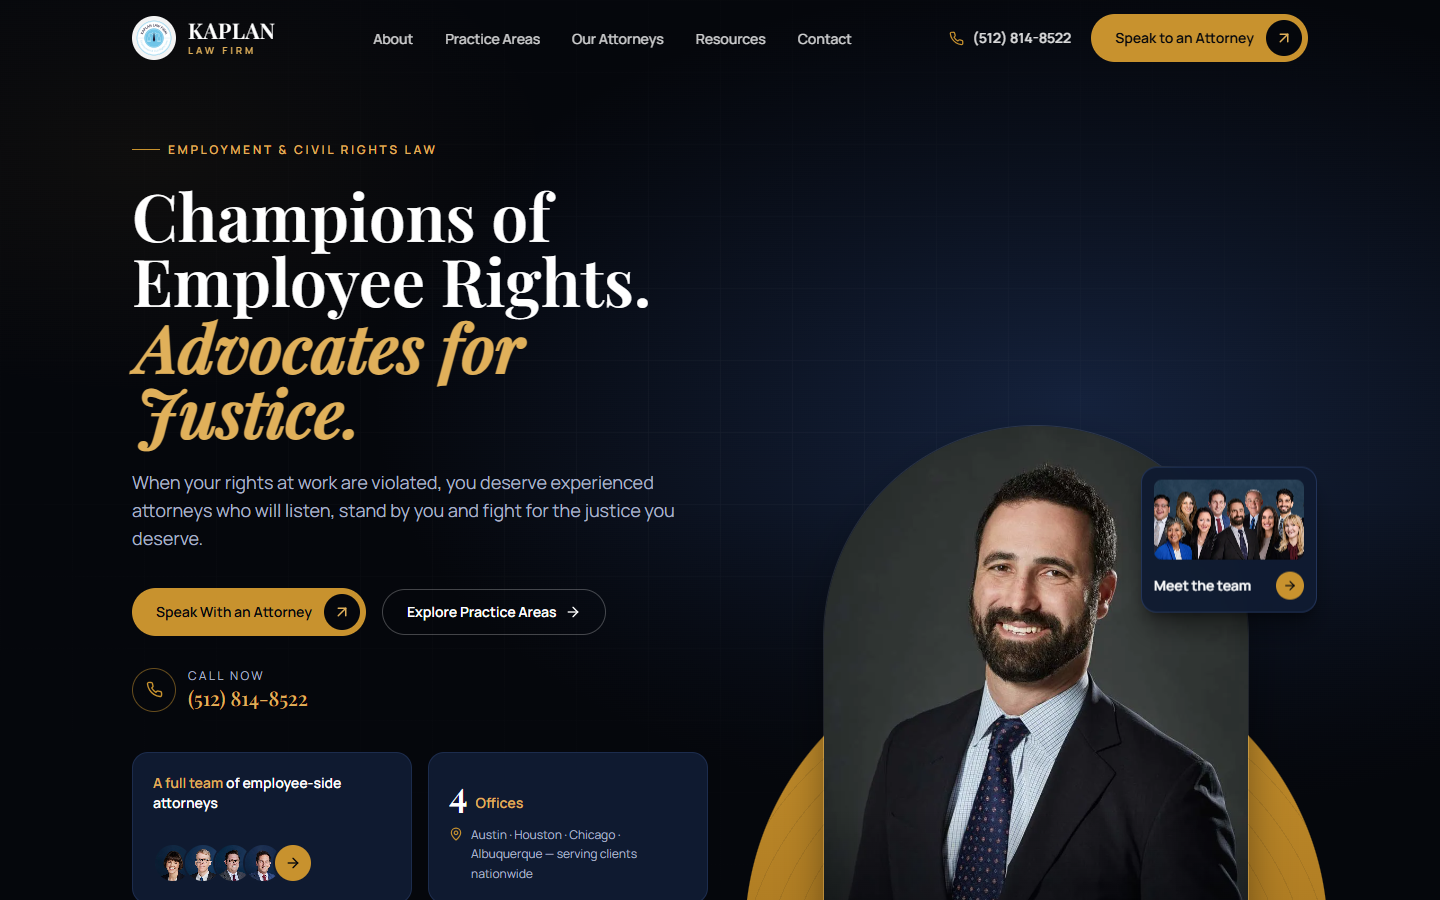
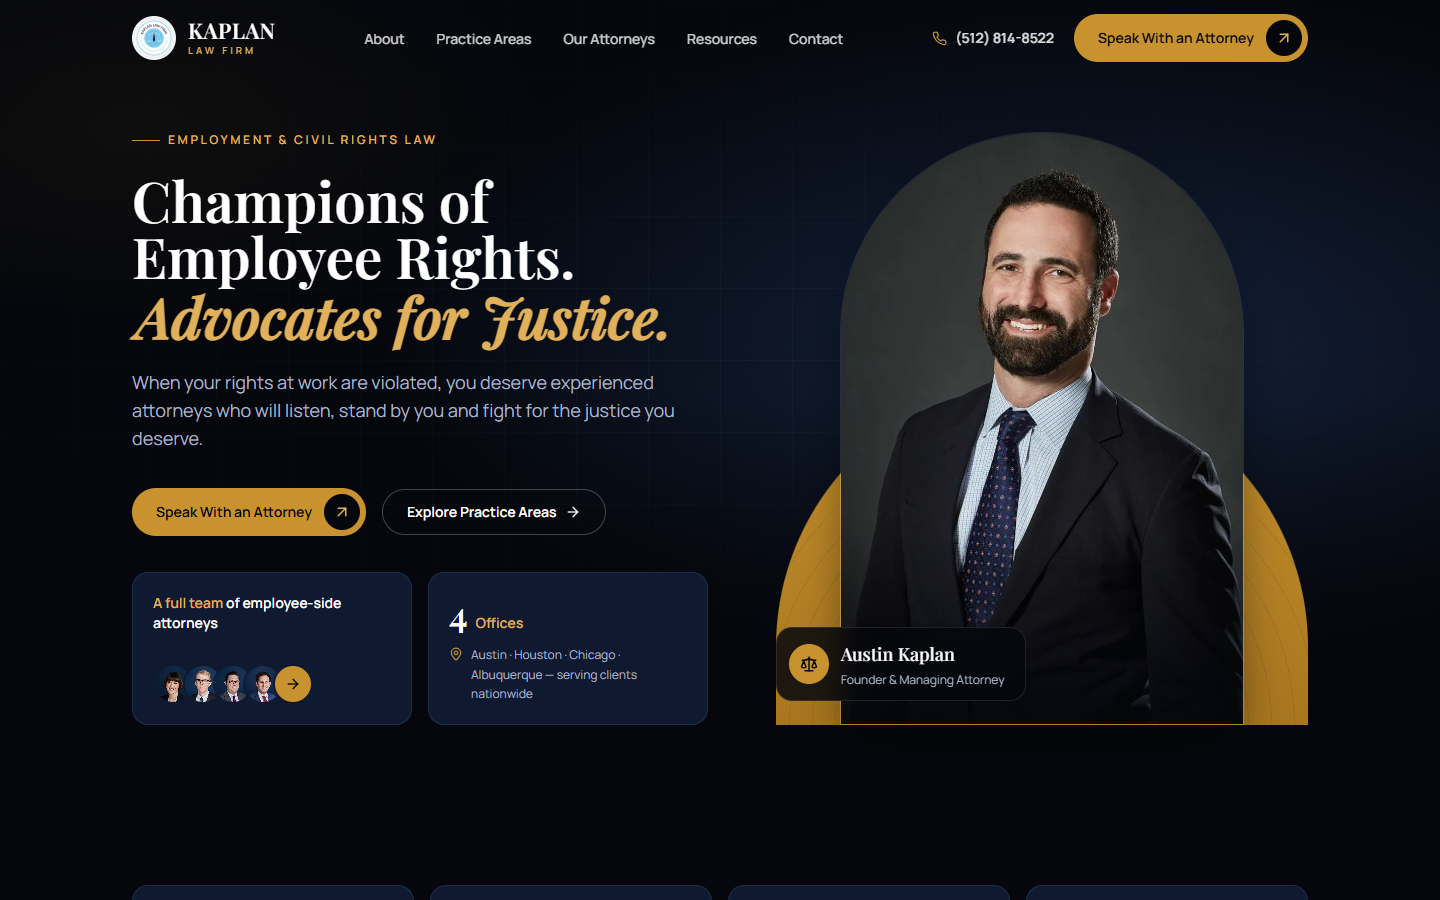
update design

diff --git a/src/components/Hero.jsx b/src/components/Hero.jsx
@@ -1,6 +1,6 @@
-import { Phone, Scale, ArrowRight, MapPin } from 'lucide-react';
+import { Scale, ArrowRight, MapPin } from 'lucide-react';
 import ArrowButton from './ArrowButton';
-import { firm, attorneys } from '../data/site';
+import { attorneys } from '../data/site';
 
 export default function Hero() {
   return (
@@ -13,13 +13,14 @@ export default function Hero() {
         <div className="absolute inset-0 bg-gradient-to-b from-ink/40 via-transparent to-ink" />
       </div>
 
-      <div className="container-site grid items-center gap-14 pb-16 pt-10 lg:grid-cols-[1.05fr_.95fr] lg:gap-8 lg:pb-0 lg:pt-14">
+      {/* One shared frame: both columns stretch to the same top and bottom edge */}
+      <div className="container-site grid items-stretch gap-12 pb-16 pt-10 lg:grid-cols-[1.05fr_.95fr] lg:gap-14 lg:pb-20 lg:pt-14">
         {/* Copy */}
-        <div className="relative z-10 lg:pb-24">
+        <div className="relative z-10 flex flex-col">
           <p className="eyebrow">Employment &amp; Civil Rights Law</p>
-          <h1 className="mt-6 font-serif text-[2.6rem] font-semibold leading-[1.06] sm:text-6xl xl:text-[4.1rem]">
-            Champions of Employee Rights.{' '}
-            <span className="accent inline-block pl-[0.07em]">Advocates for Justice.</span>
+          <h1 className="mt-6 font-serif text-[2.6rem] font-semibold leading-[1.08] sm:text-6xl lg:text-[3rem] xl:text-[3.5rem]">
+            <span className="block text-balance">Champions of Employee Rights.</span>
+            <span className="accent mt-1 block pl-[0.07em] lg:whitespace-nowrap">Advocates for Justice.</span>
           </h1>
           <p className="mt-6 max-w-xl text-base leading-relaxed text-mist sm:text-lg">
             When your rights at work are violated, you deserve experienced attorneys who will listen,
@@ -33,18 +34,8 @@ export default function Hero() {
             </a>
           </div>
 
-          <a href={firm.phoneHref} className="group mt-8 inline-flex items-center gap-3">
-            <span className="grid h-11 w-11 place-items-center rounded-full border border-gold/50 text-gold transition-colors group-hover:bg-gold group-hover:text-ink">
-              <Phone size={17} aria-hidden="true" />
-            </span>
-            <span className="leading-tight">
-              <span className="block text-xs uppercase tracking-[0.2em] text-mist">Call now</span>
-              <span className="font-serif text-xl text-gold-light">{firm.phoneDisplay}</span>
-            </span>
-          </a>
-
           {/* Credibility tiles (verified facts only) */}
-          <div className="mt-10 grid max-w-xl gap-4 sm:grid-cols-2">
+          <div className="mt-9 grid max-w-xl gap-4 sm:grid-cols-2">
             <a href="#attorneys" className="card group flex flex-col justify-between gap-4 p-5 transition-colors hover:border-gold/60">
               <span className="text-sm font-semibold"><span className="text-gold-light">A full team</span> of employee-side attorneys</span>
               <span className="flex items-center">
@@ -70,10 +61,10 @@ export default function Hero() {
         </div>
 
         {/* Portrait composition */}
-        <div className="relative mx-auto w-full max-w-[520px] self-end">
-          <div aria-hidden="true" className="absolute bottom-0 left-1/2 h-[62%] w-[112%] -translate-x-1/2 rounded-t-full bg-gradient-to-b from-gold to-gold-dark" />
-          <div aria-hidden="true" className="absolute bottom-0 left-1/2 h-[62%] w-[112%] -translate-x-1/2 rounded-t-full bg-[repeating-radial-gradient(circle_at_50%_100%,transparent_0_22px,rgba(5,7,12,.08)_22px_23px)]" />
-          <div className="relative mx-auto aspect-[4/5.4] w-[82%] overflow-hidden rounded-t-full border border-white/10 shadow-2xl shadow-black/60">
+        <div className="relative mx-auto h-[520px] w-full max-w-[520px] sm:h-[620px] lg:h-auto lg:max-w-none">
+          <div aria-hidden="true" className="absolute inset-x-0 bottom-0 h-[58%] rounded-t-full bg-gradient-to-b from-gold to-gold-dark" />
+          <div aria-hidden="true" className="absolute inset-x-0 bottom-0 h-[58%] rounded-t-full bg-[repeating-radial-gradient(circle_at_50%_100%,transparent_0_22px,rgba(5,7,12,.08)_22px_23px)]" />
+          <div className="absolute inset-y-0 left-[12%] right-[12%] overflow-hidden rounded-t-full border border-white/10 shadow-2xl shadow-black/60">
             <img
               src="/images/austin-kaplan.webp"
               alt="Austin Kaplan, Founder and Managing Attorney of Kaplan Law Firm"
@@ -84,7 +75,7 @@ export default function Hero() {
           </div>
 
           {/* Name plate */}
-          <div className="absolute bottom-6 left-0 z-10 flex items-center gap-3 rounded-2xl border border-white/10 bg-ink/85 py-3 pl-3 pr-5 backdrop-blur-md sm:left-[-4%]">
+          <div className="absolute bottom-6 left-0 z-10 flex items-center gap-3 rounded-2xl border border-white/10 bg-ink/85 py-3 pl-3 pr-5 backdrop-blur-md">
             <span className="grid h-10 w-10 place-items-center rounded-full bg-gold text-ink"><Scale size={18} aria-hidden="true" /></span>
             <span className="leading-tight">
               <span className="block font-serif text-lg">Austin Kaplan</span>
@@ -92,19 +83,6 @@ export default function Hero() {
             </span>
           </div>
 
-          {/* Team card */}
-          <a
-            href="#attorneys"
-            className="group absolute right-0 top-[8%] z-10 hidden w-44 animate-floaty rounded-2xl border border-navy-line bg-navy/95 p-3 shadow-xl shadow-black/40 backdrop-blur sm:block sm:right-[-4%]"
-          >
-            <img src="/images/team.webp" alt="The Kaplan Law Firm team" className="h-20 w-full rounded-lg object-cover" />
-            <span className="mt-3 flex items-center justify-between text-sm font-semibold">
-              Meet the team
-              <span className="grid h-7 w-7 place-items-center rounded-full bg-gold text-ink transition-transform group-hover:-rotate-45">
-                <ArrowRight size={14} aria-hidden="true" />
-              </span>
-            </span>
-          </a>
         </div>
       </div>
     </section>

diff --git a/src/components/AboutFirm.jsx b/src/components/AboutFirm.jsx
@@ -5,18 +5,18 @@ import { firm, founder } from '../data/site';
 
 export default function AboutFirm() {
   return (
-    <section id="about" className="relative bg-ink py-20 sm:py-28">
-      <div className="container-site grid items-center gap-14 lg:grid-cols-2 lg:gap-20">
-        {/* Image collage */}
-        <Reveal className="relative">
-          <div className="grid grid-cols-2 gap-4">
+    <section id="about" className="relative bg-ink py-20 sm:py-24 lg:py-20">
+      <div className="container-site grid gap-14 lg:grid-cols-2 lg:items-stretch lg:gap-20">
+        {/* Image collage — two equal photos, same top, bottom and gap */}
+        <Reveal className="relative h-[460px] sm:h-[560px] lg:h-full lg:min-h-[520px]">
+          <div className="grid h-full grid-cols-2 gap-4">
             <div className="overflow-hidden rounded-2xl">
               <img src="/images/office.webp" alt="Austin Kaplan standing in the firm's office" loading="lazy"
-                className="aspect-[3/4.4] h-full w-full object-cover object-[50%_30%] transition-transform duration-700 hover:scale-105" />
+                className="h-full w-full object-cover object-[50%_20%] transition-transform duration-700 hover:scale-105" />
             </div>
-            <div className="mt-12 overflow-hidden rounded-2xl">
+            <div className="overflow-hidden rounded-2xl">
               <img src="/images/consult.webp" alt="An attorney reviewing case documents at her desk" loading="lazy"
-                className="aspect-[3/4.4] h-full w-full object-cover object-[35%_50%] transition-transform duration-700 hover:scale-105" />
+                className="h-full w-full object-cover object-[72%_50%] transition-transform duration-700 hover:scale-105" />
             </div>
           </div>
           <div className="absolute left-1/2 top-1/2 w-40 -translate-x-1/2 -translate-y-1/2 rounded-2xl border-[6px] border-ink bg-navy px-4 py-5 text-center shadow-2xl sm:w-44">
@@ -28,8 +28,8 @@ export default function AboutFirm() {
         {/* Copy */}
         <Reveal delay={120}>
           <p className="eyebrow">About the firm</p>
-          <h2 className="h-section mt-5">
-            Dedicated to protecting employee rights &amp; ensuring <span className="accent">workplace justice.</span>
+          <h2 className="h-section mt-5 lg:text-[2.6rem]">
+            Dedicated to protecting employee rights &amp; ensuring workplace justice.
           </h2>
           <p className="mt-6 leading-relaxed text-mist">
             Kaplan Law Firm represents individuals in employment and civil rights matters. If your company is
@@ -52,7 +52,7 @@ export default function AboutFirm() {
           </div>
 
           <div className="mt-9 flex flex-wrap items-center gap-6">
-            <ArrowButton href={firm.links.about} target="_blank" rel="noopener noreferrer">Our Firm</ArrowButton>
+            <ArrowButton variant="outline" href={firm.links.about} target="_blank" rel="noopener noreferrer">Our Firm</ArrowButton>
             <div className="flex items-center gap-3">
               <img src={founder.photo} alt="" className="h-12 w-12 rounded-full object-cover object-top" />
               <span className="leading-tight">

diff --git a/src/components/PracticeAreas.jsx b/src/components/PracticeAreas.jsx
@@ -10,19 +10,19 @@ const ICONS = {
 
 export default function PracticeAreas() {
   return (
-    <section id="practice-areas" className="relative bg-ink-800 py-20 sm:py-28">
-      <div aria-hidden="true" className="absolute inset-x-0 top-0 h-px bg-gradient-to-r from-transparent via-navy-line to-transparent" />
+    <section id="practice-areas" className="relative bg-deep py-20 sm:py-28">
+      <div aria-hidden="true" className="absolute inset-x-0 top-0 h-px bg-gradient-to-r from-transparent via-gold/30 to-transparent" />
       <div className="container-site">
         <Reveal className="grid items-end gap-6 lg:grid-cols-[1.2fr_1fr_auto]">
           <div>
             <p className="eyebrow">Practice areas</p>
-            <h2 className="h-section mt-5">How we fight <span className="accent">for you</span></h2>
+            <h2 className="h-section mt-5">How we fight for you</h2>
           </div>
           <p className="max-w-md leading-relaxed text-mist">
             We represent employees across the full range of workplace and civil rights disputes — from the day
             something goes wrong all the way to the courtroom.
           </p>
-          <div><ArrowButton href={firm.links.practiceAreas} target="_blank" rel="noopener noreferrer">View All</ArrowButton></div>
+          <div><ArrowButton variant="outline" href={firm.links.practiceAreas} target="_blank" rel="noopener noreferrer">View All</ArrowButton></div>
         </Reveal>
 
         <ul className="mt-14 grid gap-5 sm:grid-cols-2 lg:grid-cols-3">
@@ -34,7 +34,7 @@ export default function PracticeAreas() {
                   href={p.href}
                   target="_blank"
                   rel="noopener noreferrer"
-                  className="card group relative flex h-full flex-col p-7 transition-all duration-500 hover:-translate-y-1.5 hover:border-gold/60 hover:bg-navy-700"
+                  className="card group relative flex h-full flex-col bg-ink-900/60 p-7 transition-all duration-500 hover:-translate-y-1.5 hover:border-gold/60 hover:bg-navy-700"
                 >
                   <span className="absolute right-5 top-5 rounded-full border border-white/10 px-2.5 py-1 text-[0.7rem] font-semibold text-mist transition-colors group-hover:border-gold/50 group-hover:text-gold-light">
                     0{i + 1}

diff --git a/src/components/Resources.jsx b/src/components/Resources.jsx
@@ -3,6 +3,7 @@ import Reveal from './Reveal';
 import ArrowButton from './ArrowButton';
 import { firm, posts } from '../data/site';
 
+// Shares the deep-navy background with How It Works.
 function Meta({ post }) {
   return (
     <p className="flex flex-wrap items-center gap-x-3 gap-y-1 text-xs text-mist">
@@ -15,21 +16,23 @@ function Meta({ post }) {
 export default function Resources() {
   const [lead, ...rest] = posts;
   return (
-    <section id="resources" className="relative bg-ink-800 py-20 sm:py-28">
+    <section id="resources" className="relative bg-deep py-20 sm:py-28">
       <div className="container-site">
         <Reveal className="flex flex-wrap items-end justify-between gap-6">
           <div>
-            <p className="eyebrow">Legal resources</p>
-            <h2 className="h-section mt-5">Know your <span className="accent">rights</span></h2>
+            <p className="inline-flex items-center gap-2 text-xs font-semibold uppercase tracking-[0.22em] text-gold-light">
+              <span className="h-px w-7 bg-gold" aria-hidden="true" />Legal resources
+            </p>
+            <h2 className="mt-5 max-w-xl font-serif text-[2.1rem] font-semibold leading-[1.12] sm:text-5xl">Know your rights at work</h2>
           </div>
-          <ArrowButton href={firm.links.blog} target="_blank" rel="noopener noreferrer">All Articles</ArrowButton>
+          <ArrowButton variant="outline" href={firm.links.blog} target="_blank" rel="noopener noreferrer">All Articles</ArrowButton>
         </Reveal>
 
         <div className="mt-14 grid gap-8 lg:grid-cols-[1.15fr_1fr]">
           {/* Lead story */}
           <Reveal as="article">
             <a href={lead.href} target="_blank" rel="noopener noreferrer" className="group block">
-              <div className="overflow-hidden rounded-2xl">
+              <div className="overflow-hidden rounded-2xl shadow-[0_20px_50px_-25px_rgba(0,0,0,.8)]">
                 <img src={lead.image} alt="" loading="lazy" className="aspect-[16/9] w-full object-cover transition-transform duration-700 group-hover:scale-105" />
               </div>
               <div className="mt-6"><Meta post={lead} /></div>

diff --git a/src/components/ConsultationProcess.jsx b/src/components/ConsultationProcess.jsx
@@ -5,14 +5,14 @@ import { steps } from '../data/site';
 
 export default function ConsultationProcess() {
   return (
-    <section id="process" className="relative overflow-hidden bg-ink-800 py-20 sm:py-28">
+    <section id="process" className="relative overflow-hidden bg-deep py-20 sm:py-28">
       <div aria-hidden="true" className="absolute -right-40 top-10 h-[420px] w-[420px] rounded-full border border-gold/10" />
       <div aria-hidden="true" className="absolute -right-24 top-28 h-[420px] w-[420px] rounded-full border border-gold/10" />
 
       <div className="container-site relative">
         <Reveal className="mx-auto max-w-2xl text-center">
           <p className="eyebrow justify-center">How it works</p>
-          <h2 className="h-section mt-5">Speak with an attorney in <span className="accent">three steps</span></h2>
+          <h2 className="h-section mt-5">Speak with an attorney in three steps</h2>
           <p className="mt-5 leading-relaxed text-mist">
             Through client feedback, we built a streamlined process that gets your case in front of an attorney
             faster than most firms.
@@ -26,7 +26,7 @@ export default function ConsultationProcess() {
               {i < steps.length - 1 && (
                 <span aria-hidden="true" className="absolute left-8 top-16 h-[calc(100%-1.5rem)] w-px bg-gold/30 lg:hidden" />
               )}
-              <span className="relative z-10 grid h-16 w-16 shrink-0 place-items-center rounded-full border border-gold bg-ink font-serif text-xl text-gold-light shadow-[0_0_0_8px_#0b1020]">
+              <span className="relative z-10 grid h-16 w-16 shrink-0 place-items-center rounded-full border border-gold bg-ink font-serif text-xl text-gold-light shadow-[0_0_0_8px_#0d1830]">
                 {s.n}
               </span>
               <div className="lg:mt-7">

diff --git a/src/components/Attorneys.jsx b/src/components/Attorneys.jsx
@@ -10,7 +10,7 @@ export default function Attorneys() {
         <Reveal className="flex flex-wrap items-end justify-between gap-6">
           <div>
             <p className="eyebrow">Our attorneys</p>
-            <h2 className="h-section mt-5 max-w-2xl">The people in your <span className="accent">corner</span></h2>
+            <h2 className="mt-5 max-w-2xl font-serif text-[2.4rem] font-semibold leading-[1.05] sm:text-6xl">The people in your corner</h2>
           </div>
           <a href={`${firm.links.about}#attorneys`} target="_blank" rel="noopener noreferrer" className="btn-ghost">
             View the full team <ArrowUpRight size={16} aria-hidden="true" />
@@ -34,7 +34,7 @@ export default function Attorneys() {
                 {founder.pull}
               </blockquote>
               <div className="mt-auto pt-7">
-                <ArrowButton href={founder.href} target="_blank" rel="noopener noreferrer">
+                <ArrowButton variant="outline" href={founder.href} target="_blank" rel="noopener noreferrer">
                   Read Austin’s Bio
                 </ArrowButton>
               </div>

diff --git a/src/components/ArrowButton.jsx b/src/components/ArrowButton.jsx
@@ -1,7 +1,23 @@
 import { ArrowUpRight } from 'lucide-react';
 
-/** Gold pill CTA with circular arrow badge (reference-style). */
-export default function ArrowButton({ href, children, className = '', ...rest }) {
+/**
+ * Pill CTA.
+ * - variant="primary" (default): gold pill with circular arrow — reserved for contact actions only.
+ * - variant="outline": quiet outlined pill for secondary navigation (View all, bios, articles).
+ * - tone="light" adapts the outline variant for light backgrounds.
+ */
+export default function ArrowButton({ href, children, variant = 'primary', tone = 'dark', className = '', ...rest }) {
+  if (variant === 'outline') {
+    const toneCls = tone === 'light'
+      ? 'border-ink/20 text-ink hover:border-bronze hover:text-bronze'
+      : '';
+    return (
+      <a href={href} className={`btn-ghost ${toneCls} ${className}`} {...rest}>
+        {children}
+        <ArrowUpRight size={16} aria-hidden="true" />
+      </a>
+    );
+  }
   return (
     <a href={href} className={`btn-gold ${className}`} {...rest}>
       {children}

diff --git a/src/components/Navbar.jsx b/src/components/Navbar.jsx
@@ -72,7 +72,7 @@ export default function Navbar() {
             <Phone size={15} className="text-gold" aria-hidden="true" /> {firm.phoneDisplay}
           </a>
           <a href="#contact" className="btn-gold">
-            Speak to an Attorney
+            Speak With an Attorney
             <span className="btn-dot" aria-hidden="true"><ArrowUpRight size={18} /></span>
           </a>
         </div>
@@ -115,7 +115,7 @@ export default function Navbar() {
           </ul>
           <div className="mt-auto space-y-3">
             <a href="#contact" tabIndex={open ? 0 : -1} onClick={() => setOpen(false)} className="btn-gold w-full justify-between">
-              Speak to an Attorney
+              Speak With an Attorney
               <span className="btn-dot" aria-hidden="true"><ArrowUpRight size={18} /></span>
             </a>
             <a href={firm.phoneHref} tabIndex={open ? 0 : -1} className="btn-ghost w-full justify-center">

diff --git a/src/components/Testimonials.jsx b/src/components/Testimonials.jsx
@@ -20,7 +20,7 @@ export default function Testimonials() {
           <blockquote>
             <p className="mt-4 font-serif text-3xl leading-[1.25] sm:text-[2.6rem]">
               “Everyone I dealt with at the firm was knowledgeable, helpful and operated with a{' '}
-              <span className="accent">high degree of integrity.</span>”
+              high degree of integrity.”
             </p>
             <footer className="mt-7 flex items-center gap-3 text-sm">
               <span className="h-px w-10 bg-gold" aria-hidden="true" />

diff --git a/tailwind.config.js b/tailwind.config.js
@@ -5,6 +5,10 @@ export default {
     extend: {
       colors: {
         ink: { DEFAULT: '#05070c', 900: '#080b14', 800: '#0b1020' },
+        deep: '#0d1830',
+        cream: { DEFAULT: '#f6f2ea', 200: '#ece5d8' },
+        bronze: '#8a5f14',
+        slate: '#4a5468',
         navy: { DEFAULT: '#0f1a30', 700: '#13213d', 600: '#1a2b4d', line: '#22345a' },
         gold: { DEFAULT: '#c8922e', light: '#e0b05a', dark: '#a8761f' },
         mist: '#a9b3c7',
